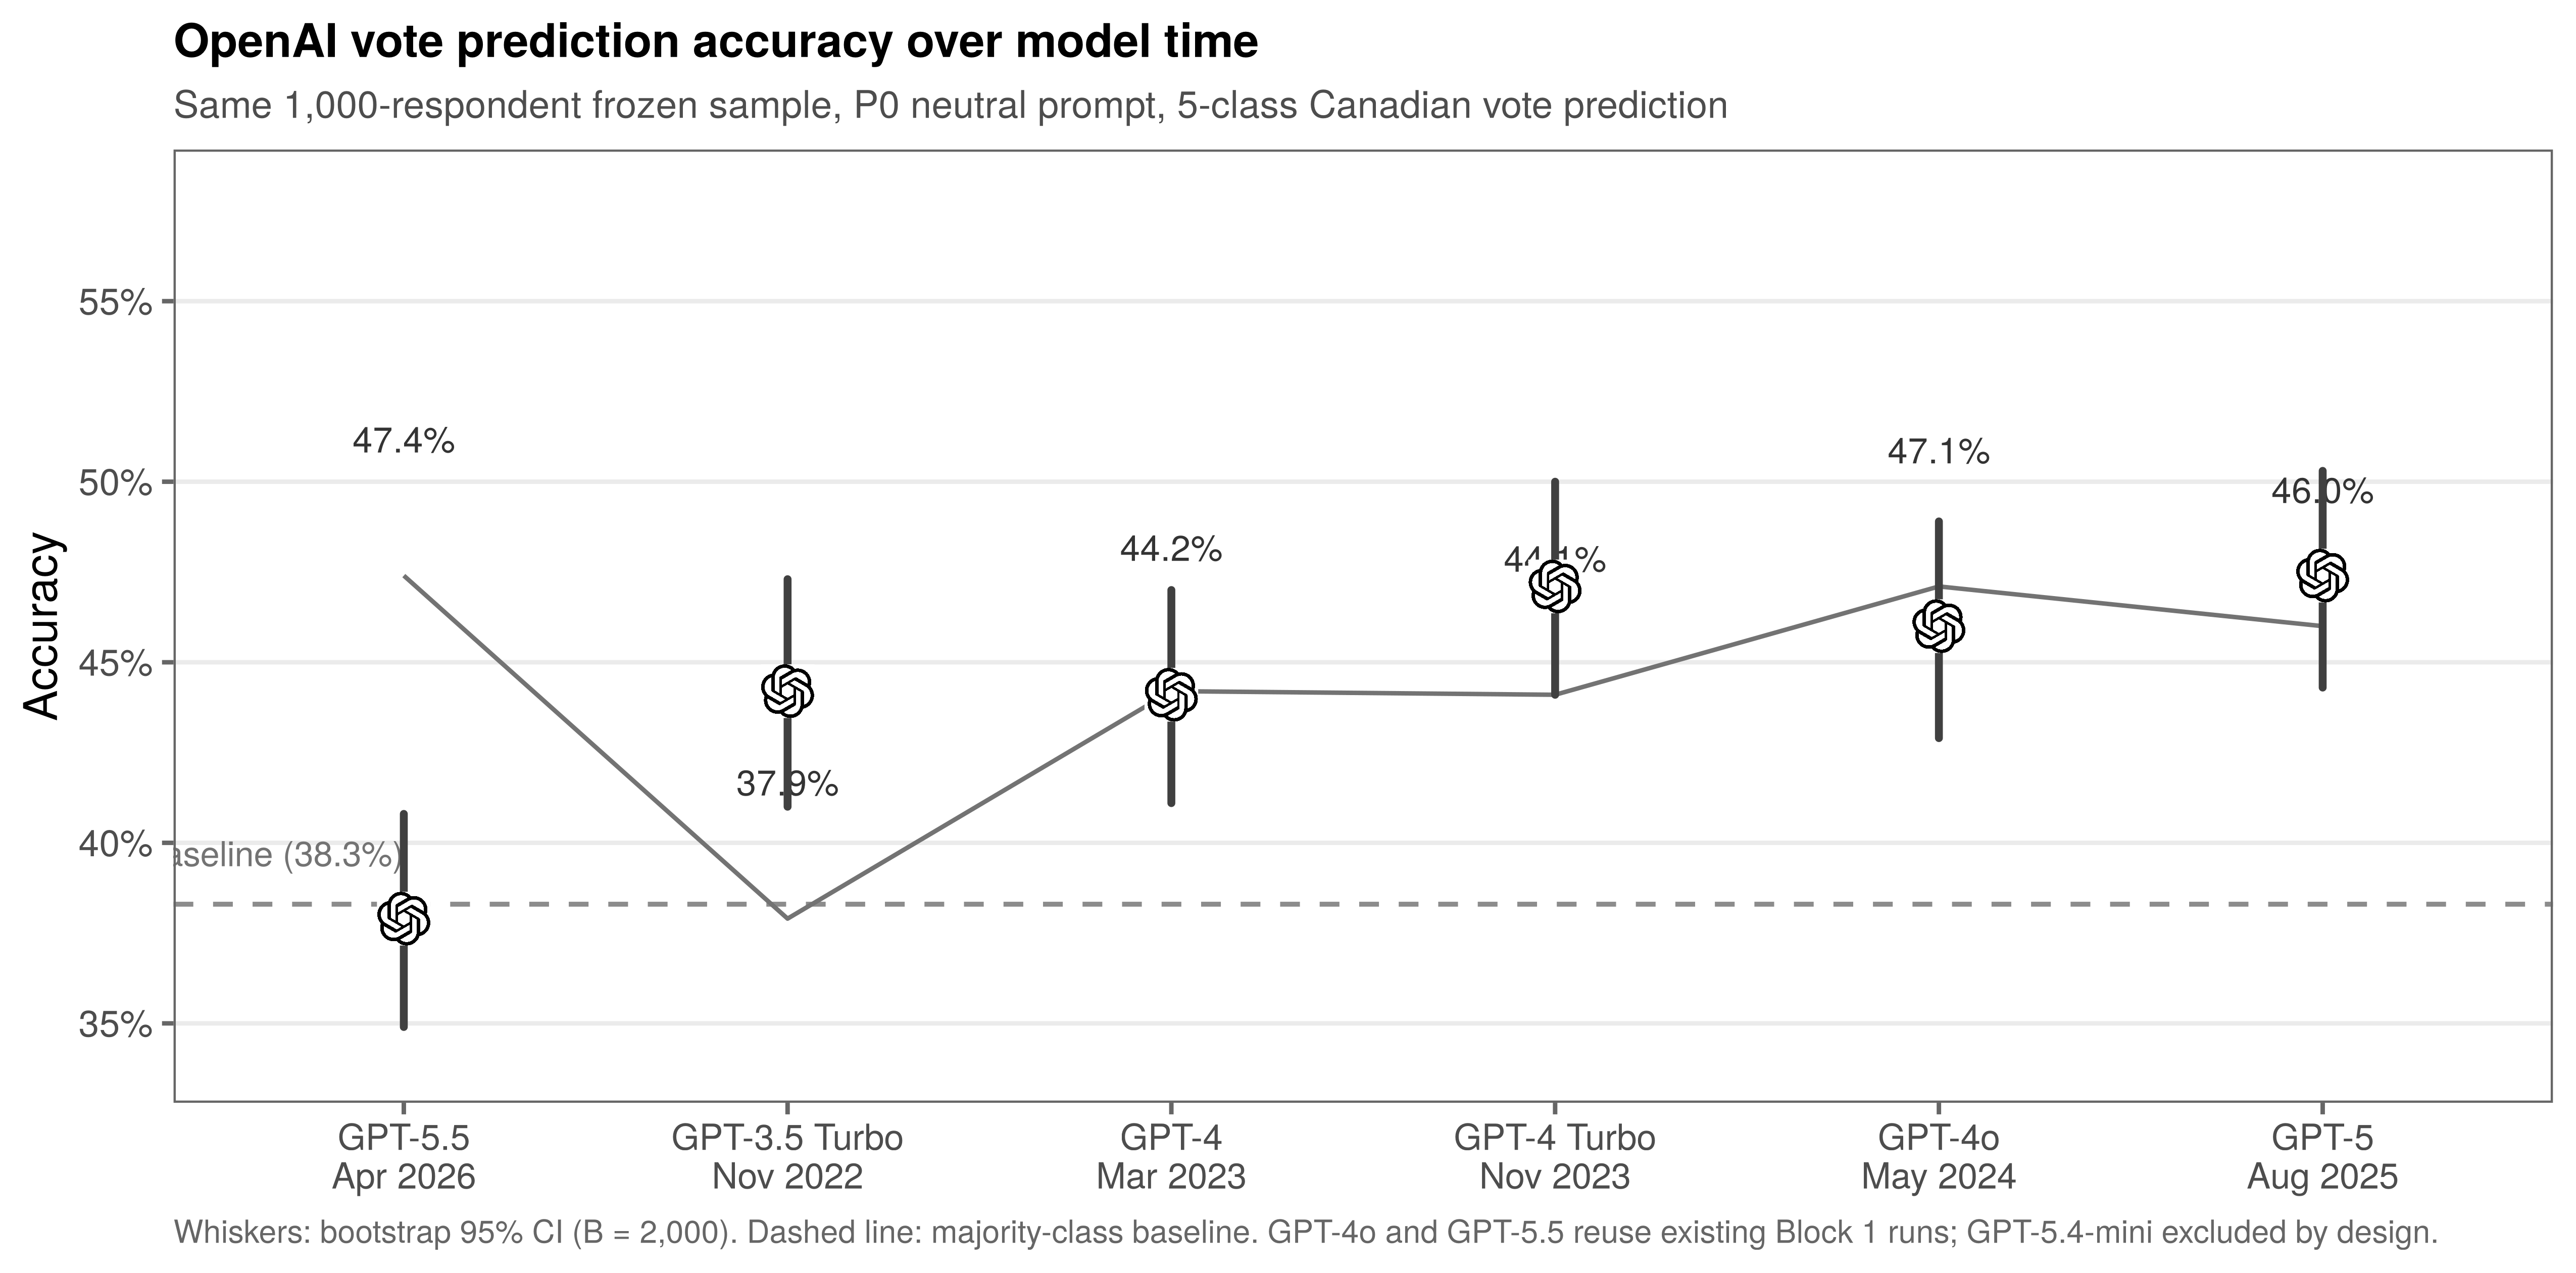
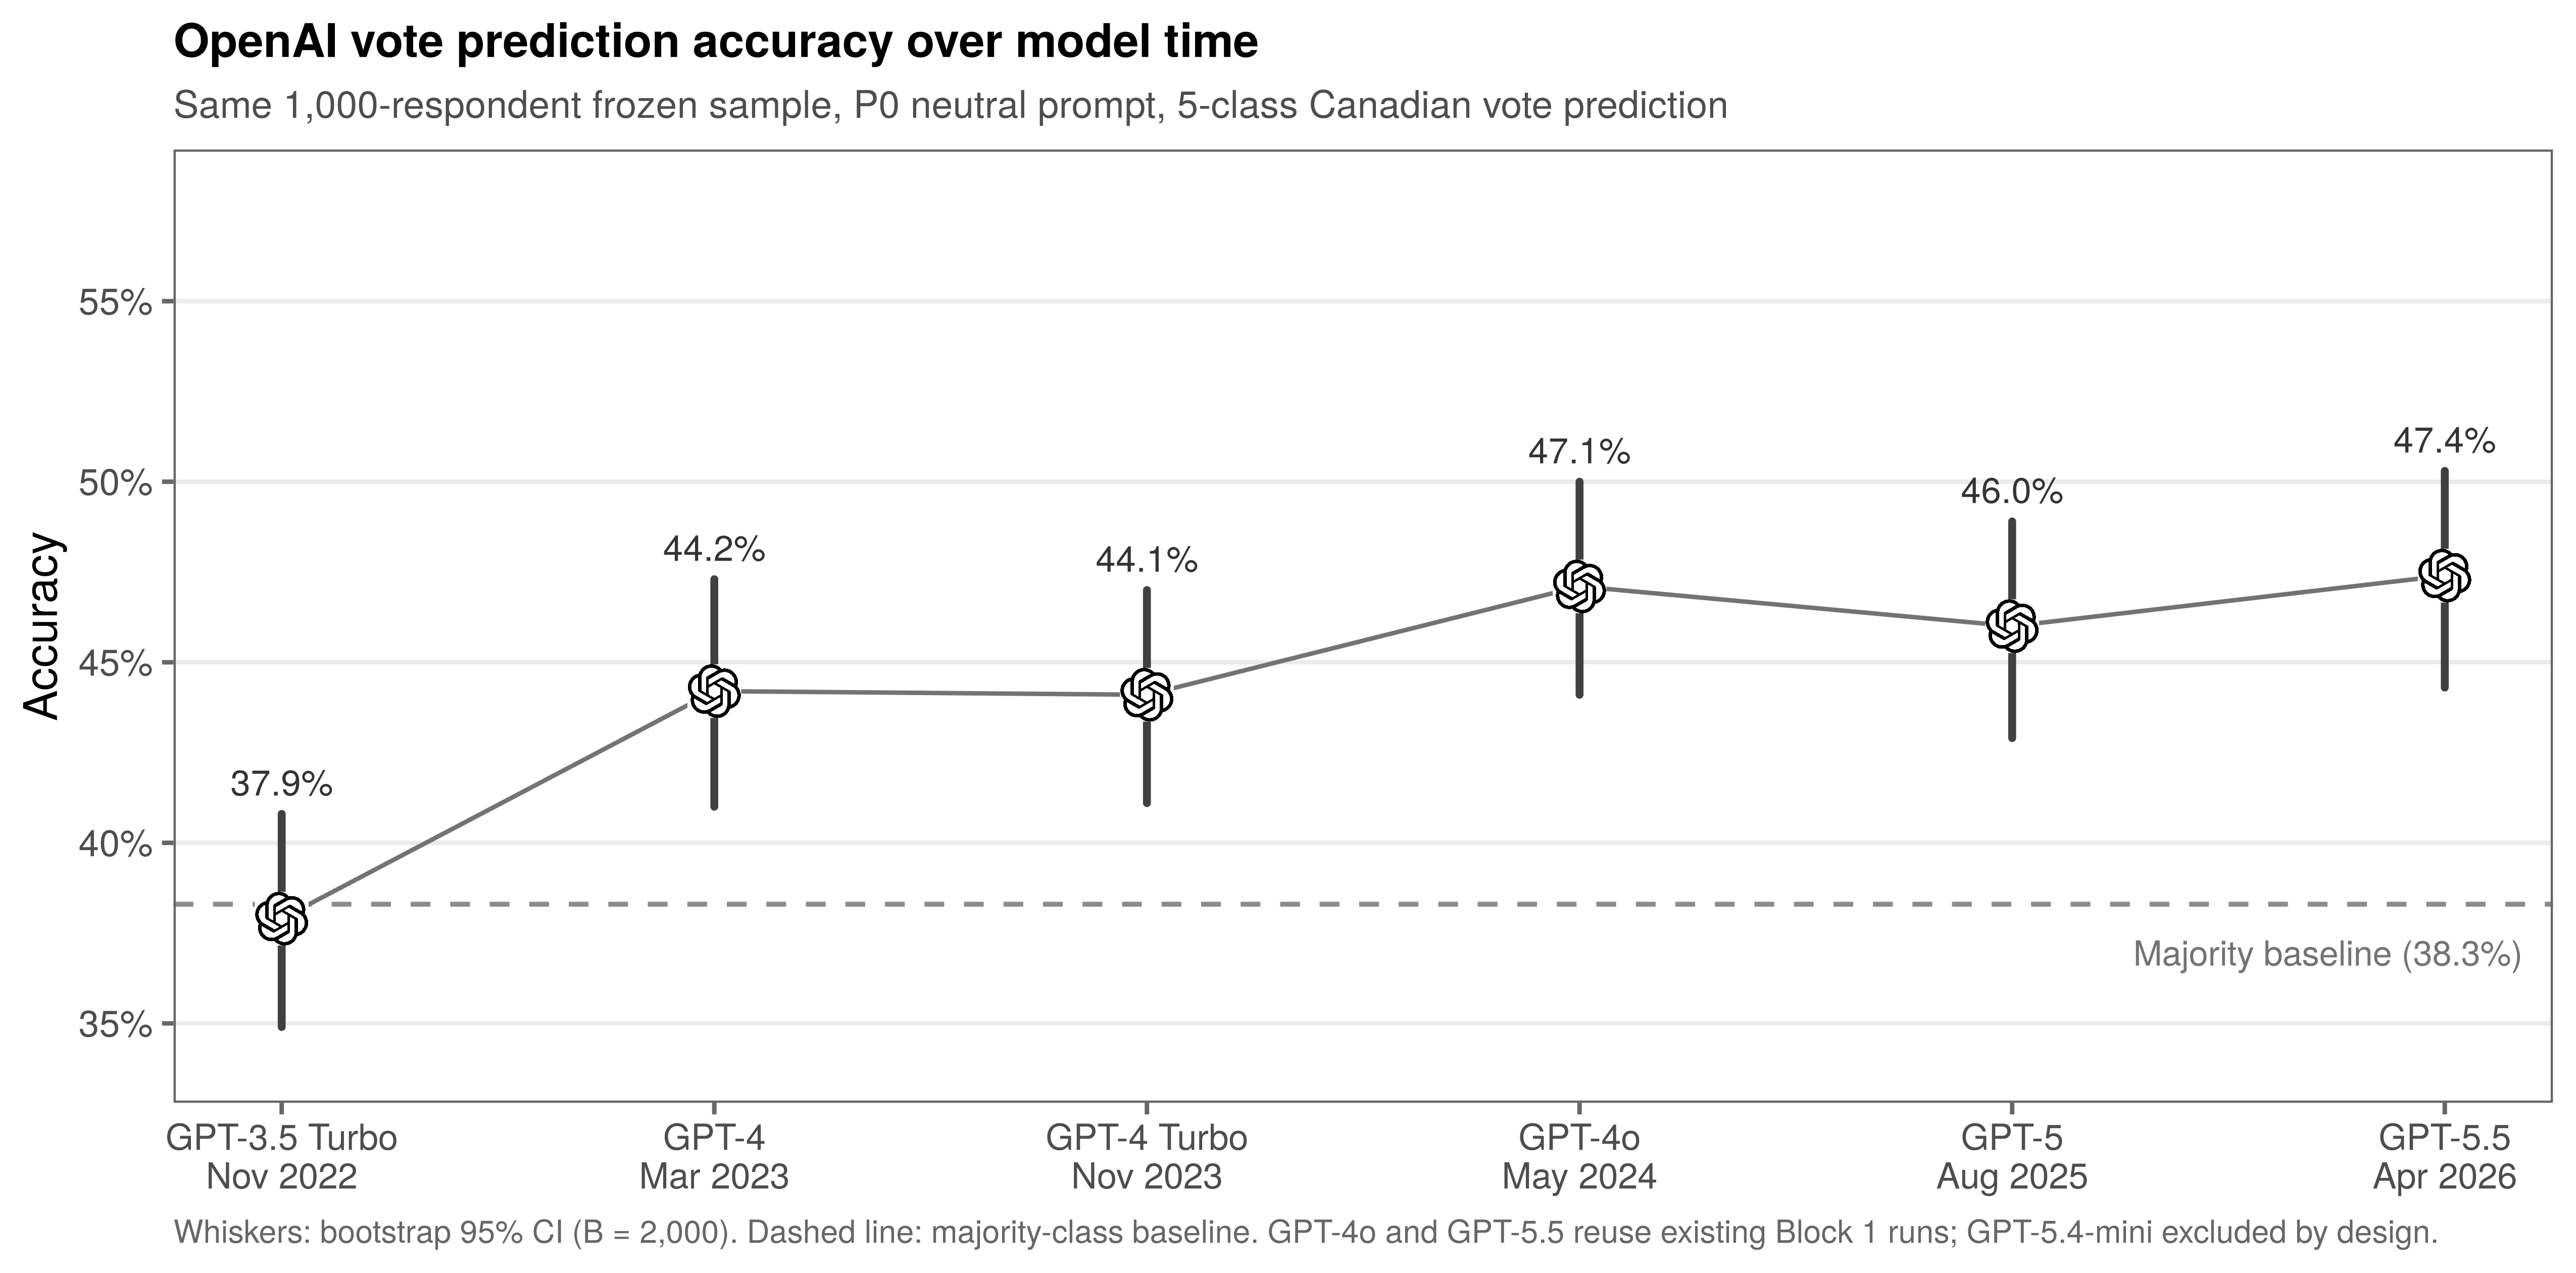
grind

diff --git a/presentation_mm26/index.html b/presentation_mm26/index.html
@@ -1722,7 +1722,7 @@
           </div>
 
           <div class="e small" style="color:#888; font-size:0.75rem; margin-top:4px">
-            Temperature = 0 &nbsp;·&nbsp; n = 1,000 &nbsp;·&nbsp; template hash <code style="font-size:0.72rem">d51c6745</code>
+            Temperature = 0 &nbsp;·&nbsp; n = 1,000
           </div>
         </div>
       </div>